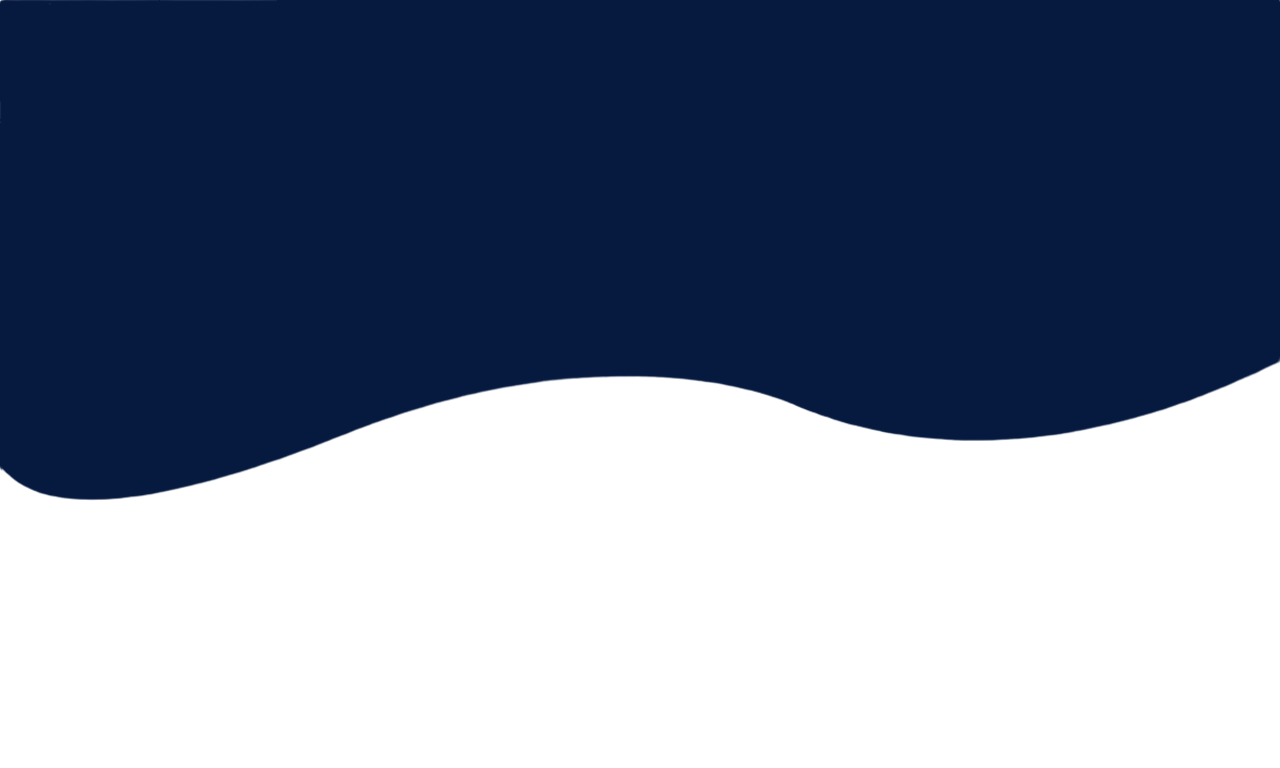
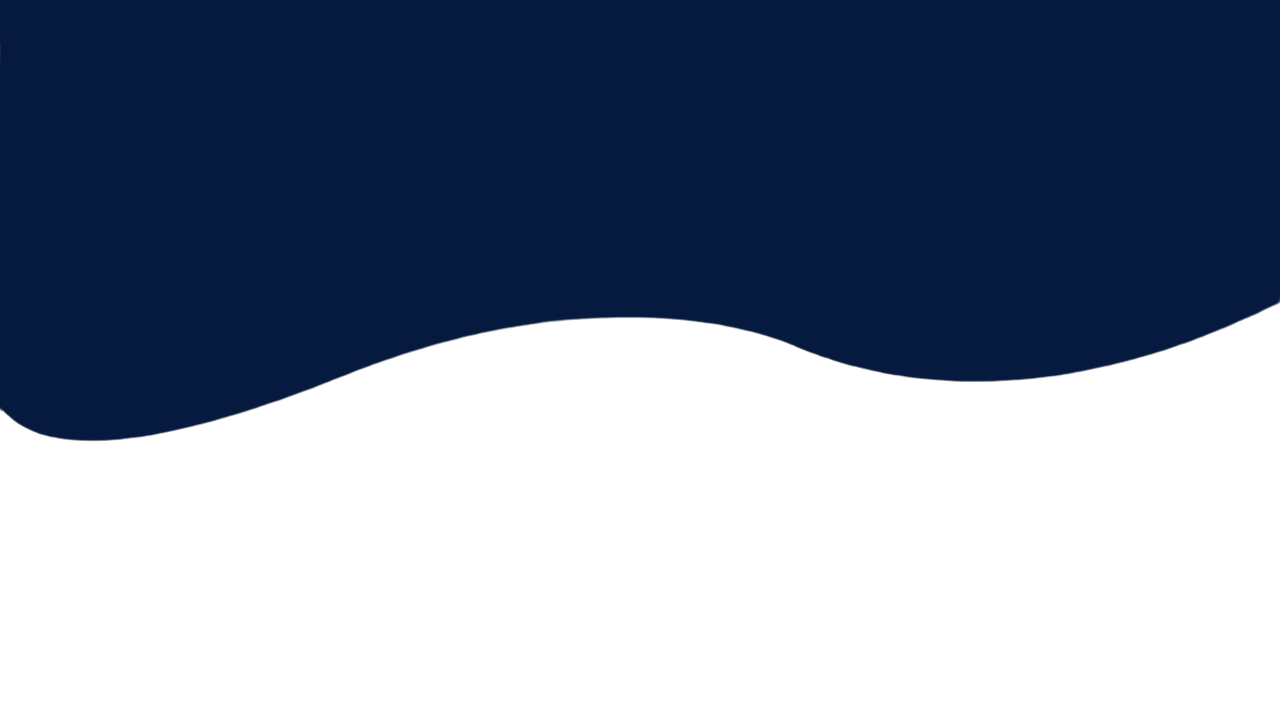
about Us fixed and styling improved

Changed region(s): [[0.0, 0.4344, 1.0, 0.6516]]

diff --git a/src/views/About.jsx b/src/views/About.jsx
@@ -1,32 +1,42 @@
 import React from "react";
+import { useSpring, animated } from "react-spring";
 import screens from '../../src/img/screens.png'
 import bg from '../../src/img/bg.png'
 import poster from '../../src/img/poster.png'
+import hardware from '../../src/img/hardware.jpeg'
+import software from '../../src/img/software.jpeg'
 // #061a40
 
 const About = () => {
+    const slideIn = useSpring({
+        from: {opacity: 0, transform: 'translate3d(0, -100%, 0)'},
+        to: {opacity: 1, transform: 'translate3d(0, 0, 0)'},
+        delay: 500,
+      })
   return (
     <div style={{ position: "relative" }}>
+    <animated.div style={slideIn}>
       <img src={bg} style={{ width: "100%", position: "absolute", zIndex: "-1"}} />
       <div className='about' style={{display: "flex", justifyContent: "space-between", alignItems: "center"}}>
-        <div className="desc" style={{color:'white', marginLeft:'1.5rem'}}>
+        <div className="desc" style={{color:'white', padding:'10rem 5rem', fontSize: "1.2rem"}}>
           <h3 style={{fontWeight:'600'}}>About Us</h3>
           <p>This project presents the development of a low-cost inertial profilometer to assess road quality in Karachi, Pakistan, using accelerometer sensors and Internet of Things (IoT) technology. The system provides accurate road surface measurements, calculates the International Roughness Index (IRI), and generates detailed road assessment maps using GPS data. In addition to addressing societal, health, and economic concerns, the project emphasizes environmental sustainability and adherence to engineering standards. </p>
         </div>
         <img src={screens} style={{marginTop:'3rem'}} className="fade-in"/>
       </div>
-      <div style={{textAlign: 'center'}}>
+    </animated.div>
+      <div style={{textAlign: 'center', marginTop: "15rem"}}>
         <h3 style={{textAlign:'center', color: '#061a40', fontWeight:'600'}}>Project Overview</h3>
-        <img src={poster} style={{width:'50%', boxShadow: '0px 0px 8px 0px rgba(0,0,0,0.2)'}}/>
+        <img src={poster} style={{width:'80%', boxShadow: '0px 0px 8px 0px rgba(0,0,0,0.2)'}}/>
       </div>
 
-      <div style={{textAlign: 'center', marginTop:'4rem'}}>
+      <div style={{textAlign: 'center', margin:'4rem'}}>
         <h3 style={{textAlign:'center', color: '#061a40', fontWeight:'600'}}>System Overview</h3>
-        <img src={poster} style={{width:'30%', boxShadow: '0px 0px 8px 0px rgba(0,0,0,0.2)', marginRight:'4rem'}}/>
-        <img src={poster} style={{width:'30%', boxShadow: '0px 0px 8px 0px rgba(0,0,0,0.2)'}}/>
+        <img src={software} style={{width:'30%', boxShadow: '0px 0px 8px 0px rgba(0,0,0,0.2)', marginRight:'4rem'}}/>
+        <img src={hardware} style={{width:'30%', boxShadow: '0px 0px 8px 0px rgba(0,0,0,0.2)'}}/>
       </div>
 
-      <div style={{marginTop:'4rem'}}>
+      {/* <div style={{marginTop:'4rem'}}>
         <h3 style={{textAlign:'center', color: '#061a40', fontWeight:'600'}}>Team Members</h3>
         <div className="row container" style={{margin:'3rem 1rem 3rem 1rem'}}>
           <div className="col-md-4" style={{boxShadow: '0px 0px 8px 0px rgba(0,0,0,0.2)', textAlign:'center', color:'black'}}>
@@ -44,7 +54,7 @@ const About = () => {
             <p>EE 2023</p>
           </div>
           </div>
-      </div>
+      </div> */}
     </div>
   );
 };
